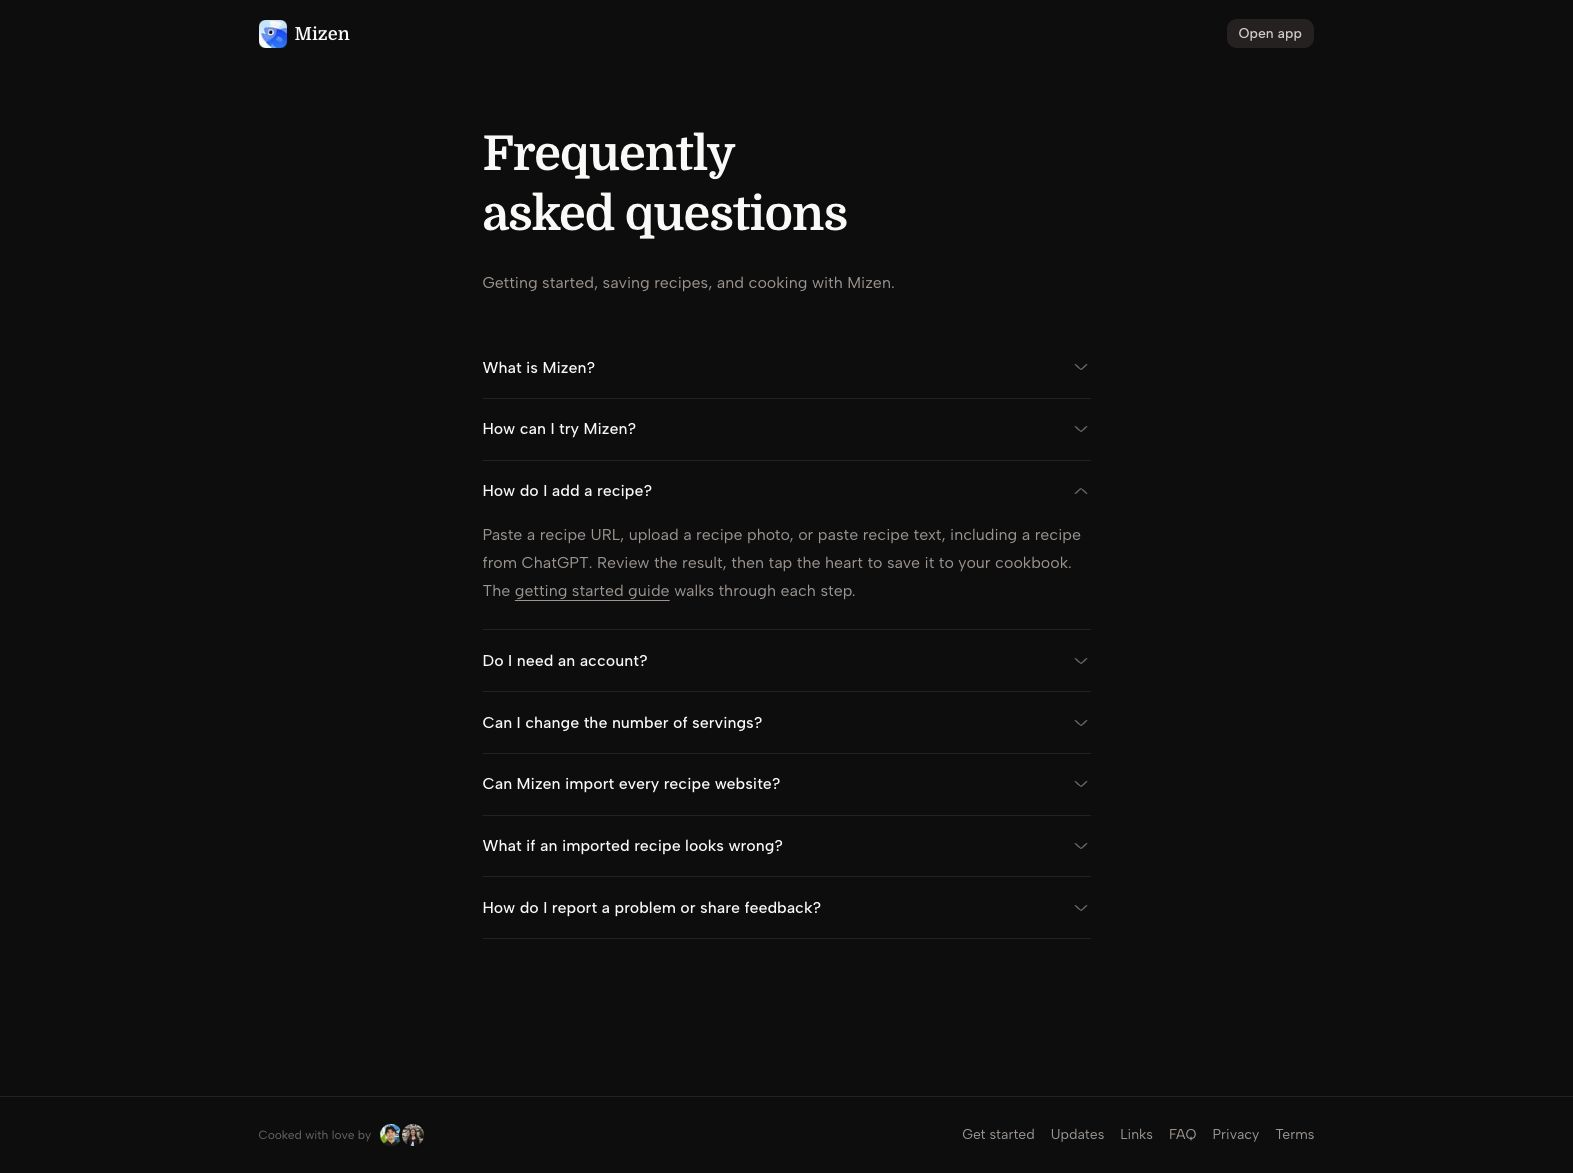
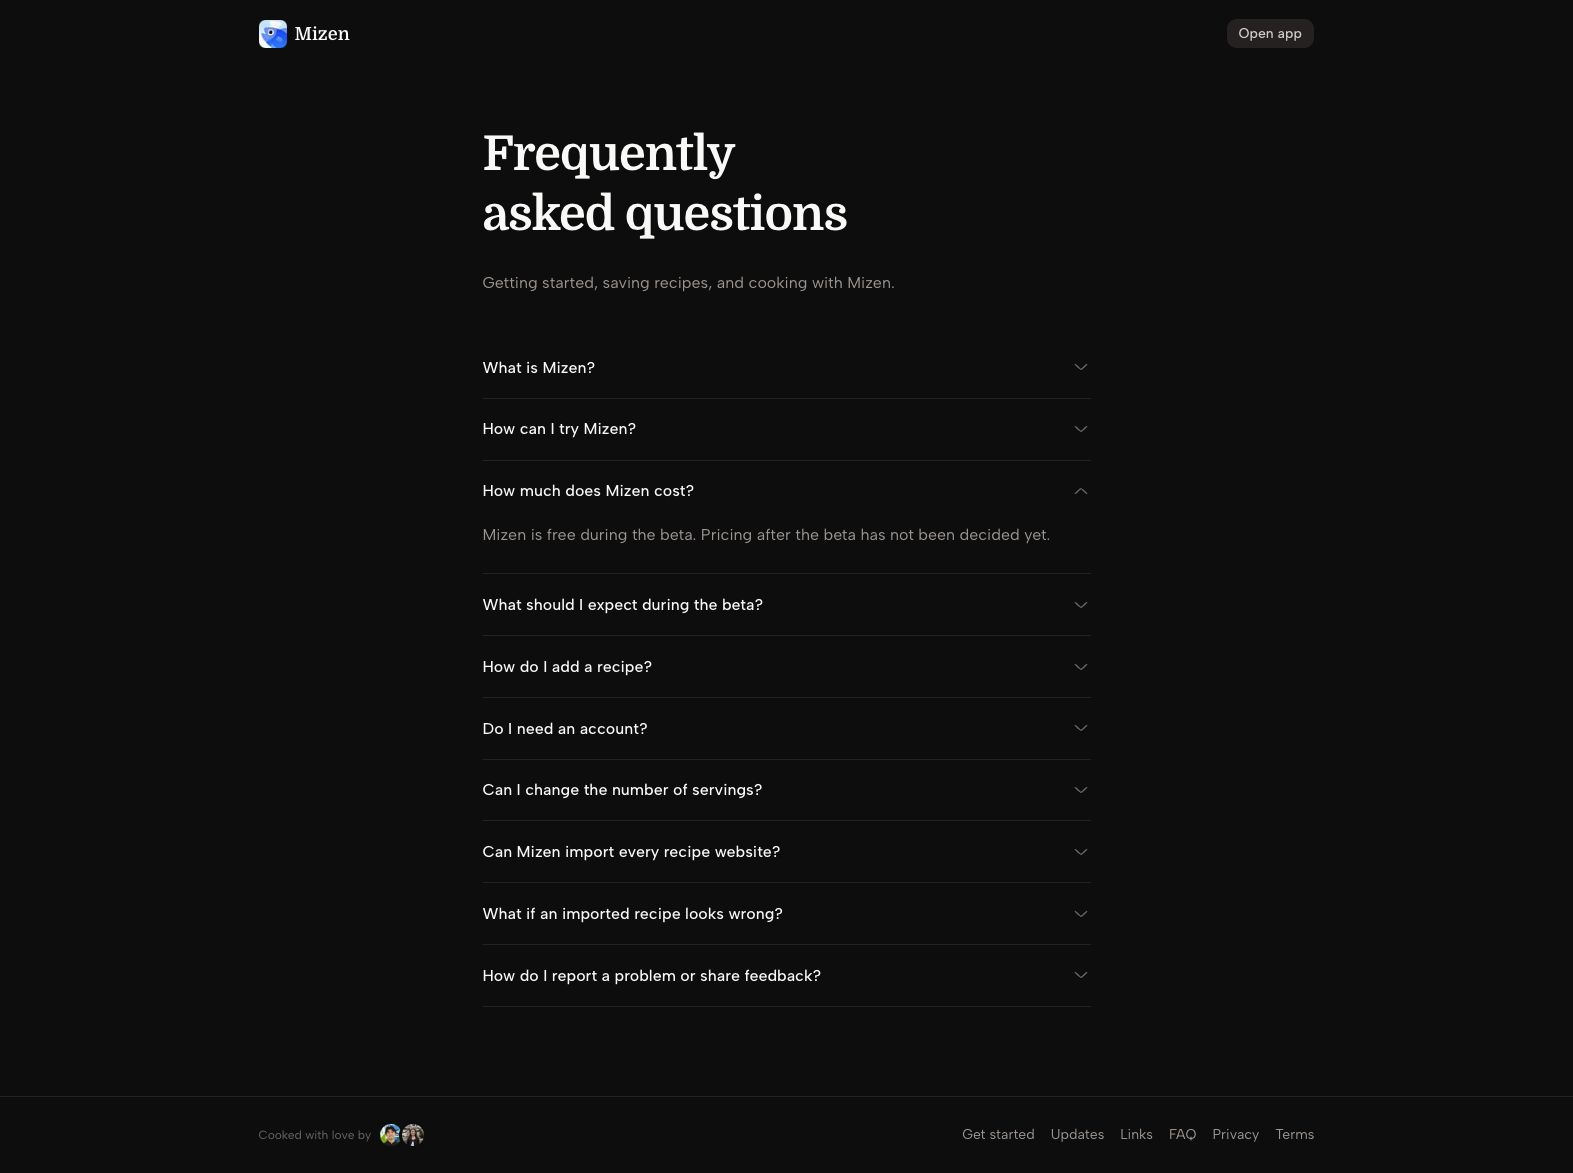
Explain FAQ pricing and beta access

diff --git a/src/components/faq/Faq.tsx b/src/components/faq/Faq.tsx
@@ -28,7 +28,31 @@ const questions = [
         <Link href="/links" className={answerLink}>
           waitlist
         </Link>{" "}
-        for access, or sign in if you already have an account.
+        to request an invite. If you have been invited, sign in with the email address on your
+        invite.
+      </>
+    ),
+  },
+  {
+    id: "pricing",
+    question: "How much does Mizen cost?",
+    answer: <>Mizen is free during the beta. Pricing after the beta has not been decided yet.</>,
+  },
+  {
+    id: "beta",
+    question: "What should I expect during the beta?",
+    answer: (
+      <>
+        The beta is an early version of Mizen with recipe imports and the mobile cooking view. Bugs
+        are to be expected, and your feedback helps us improve the app. See the{" "}
+        <Link href="/changelog" className={answerLink}>
+          updates
+        </Link>{" "}
+        for recent changes, and send feedback to{" "}
+        <a href="mailto:hello@mizen.recipes" className={answerLink}>
+          hello@mizen.recipes
+        </a>
+        .
       </>
     ),
   },
